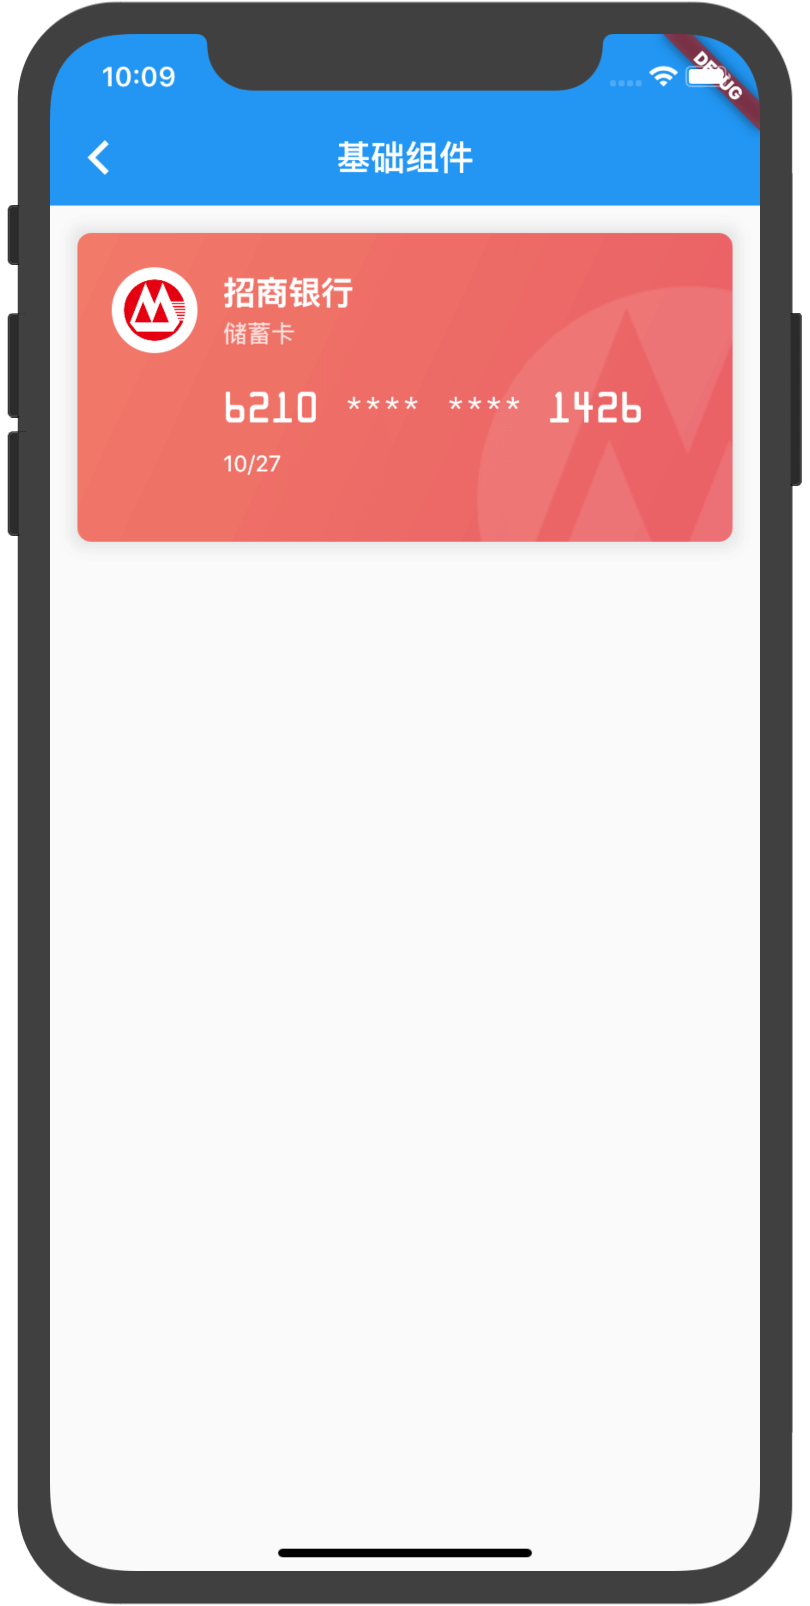
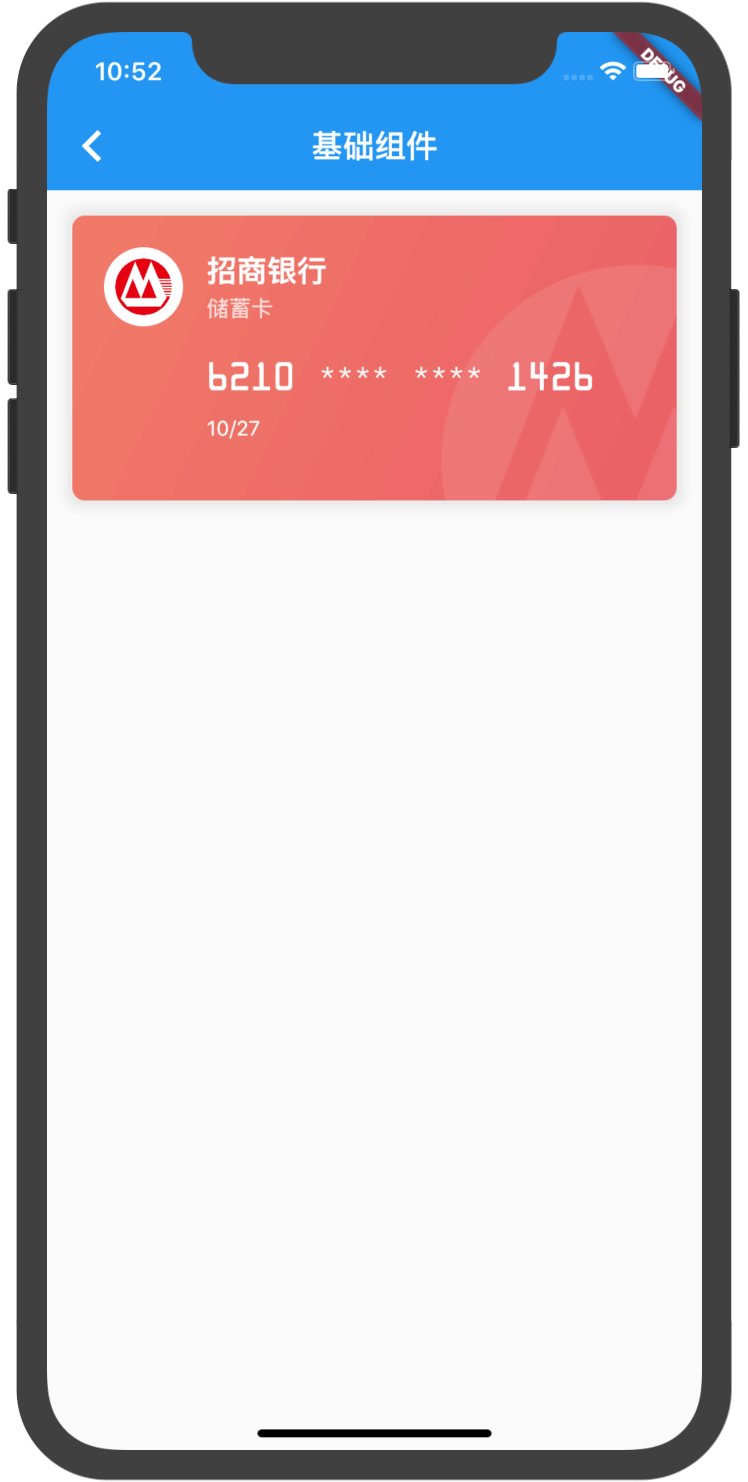
[modify] 调整screenshots

diff --git a/lib/list_view/README.md b/lib/list_view/README.md
@@ -1,9 +1,9 @@
 # ListView列表组件 - 示例
 
-|1. 普通列表 [(normal_usage)](./normal_usage.dart)|2. 公众号列表 [(builder_usage)](./builder_usage.dart)|3. 支付宝好友列表 [(separated_usage)](./separated_usage.dart)|
+|1. [普通列表](./normal_usage.dart)|2. [公众号列表](./builder_usage.dart)|3. [支付宝好友列表](./separated_usage.dart)|
 |----|---|---|
-|<img src="./screen_shots/normal_usage.gif"/>|<img src="./screen_shots/builder_usage.gif"/>|<img src="./screen_shots/separated_usage.gif"/>|
+|<img width="265"  src="./screen_shots/normal_usage.gif"/>|<img width="265"  src="./screen_shots/builder_usage.gif"/>|<img width="265"  src="./screen_shots/separated_usage.gif"/>|
 
-|4. 下拉刷新 [(pull_down_refresh_usage)](./pull_down_refresh_usage.dart)|5. 上拉加载 [(pull_up_load_more_usage)](./pull_up_load_more.dart)||
-|----|---|---|
-|<img src="./screen_shots/normal_usage.gif"/>|<img src="./screen_shots/builder_usage.gif"/>||
+|4. [下拉刷新](./pull_down_refresh_usage.dart)|5. [上拉加载](./pull_up_load_more.dart)|
+|----|---|
+|<img width="265" src="./screen_shots/normal_usage.gif"/>|<img width="265"  src="./screen_shots/builder_usage.gif"/>|

diff --git a/lib/basic_widgets/README.md b/lib/basic_widgets/README.md
@@ -1,5 +1,5 @@
 # 基础组件 - 示例
 
-|1. 宠物卡片 [(pet_card)](./pet_card.dart)|2. 银行卡 [(credit_card)](./credit_card.dart)|3. 朋友圈 [(friend_circle)](./friend_circle.dart)|
+|1. [宠物卡片](./pet_card.dart)|2. [银行卡](./credit_card.dart)|3. [朋友圈](./friend_circle.dart)|
 |----|---|---|
-|<img width="300" src="./screen_shots/pet_card.png"/>|<img width="300" src="./screen_shots/credit_card.png"/>|<img width="300" src="./screen_shots/friend_circle.png"/>|
+|<img width="265" src="./screen_shots/pet_card.png"/>|<img width="265" src="./screen_shots/credit_card.png"/>|<img width="265" src="./screen_shots/friend_circle.png"/>|
